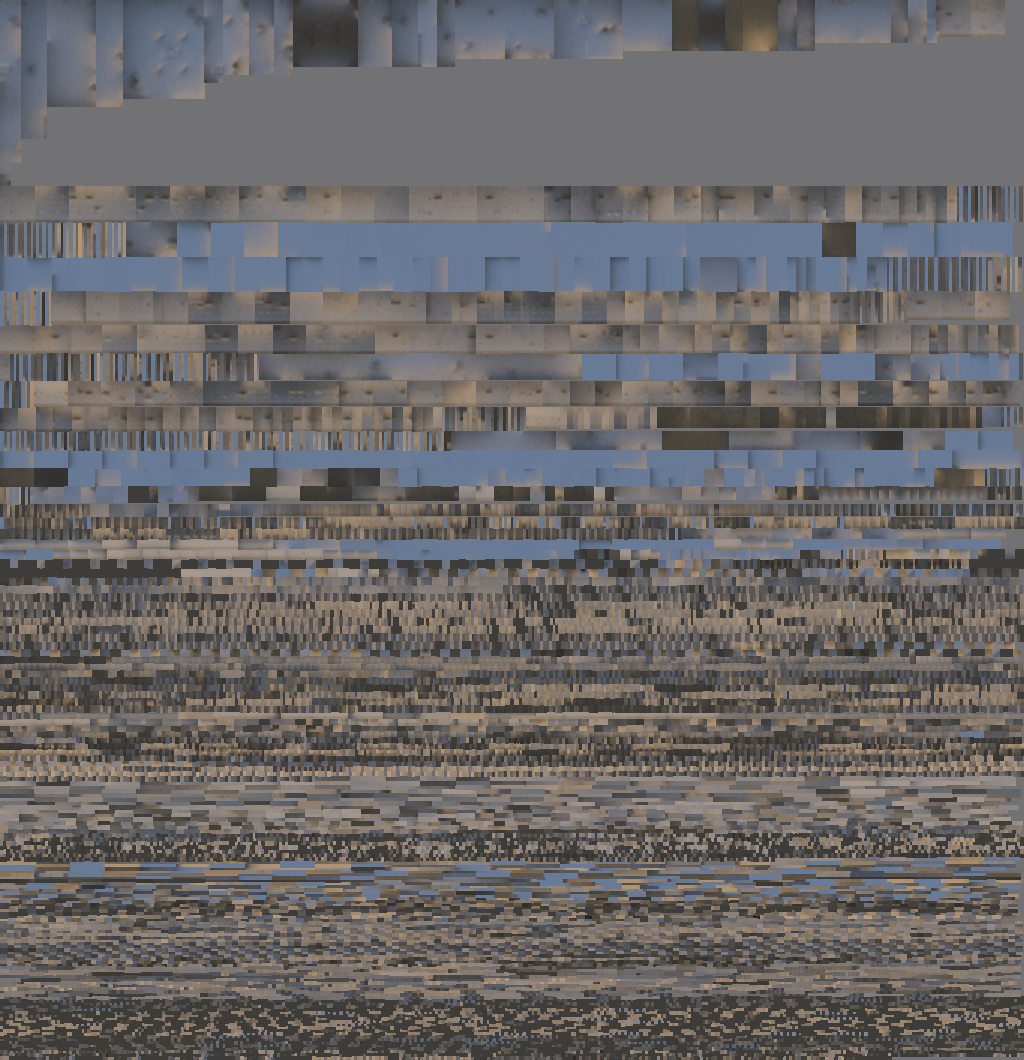
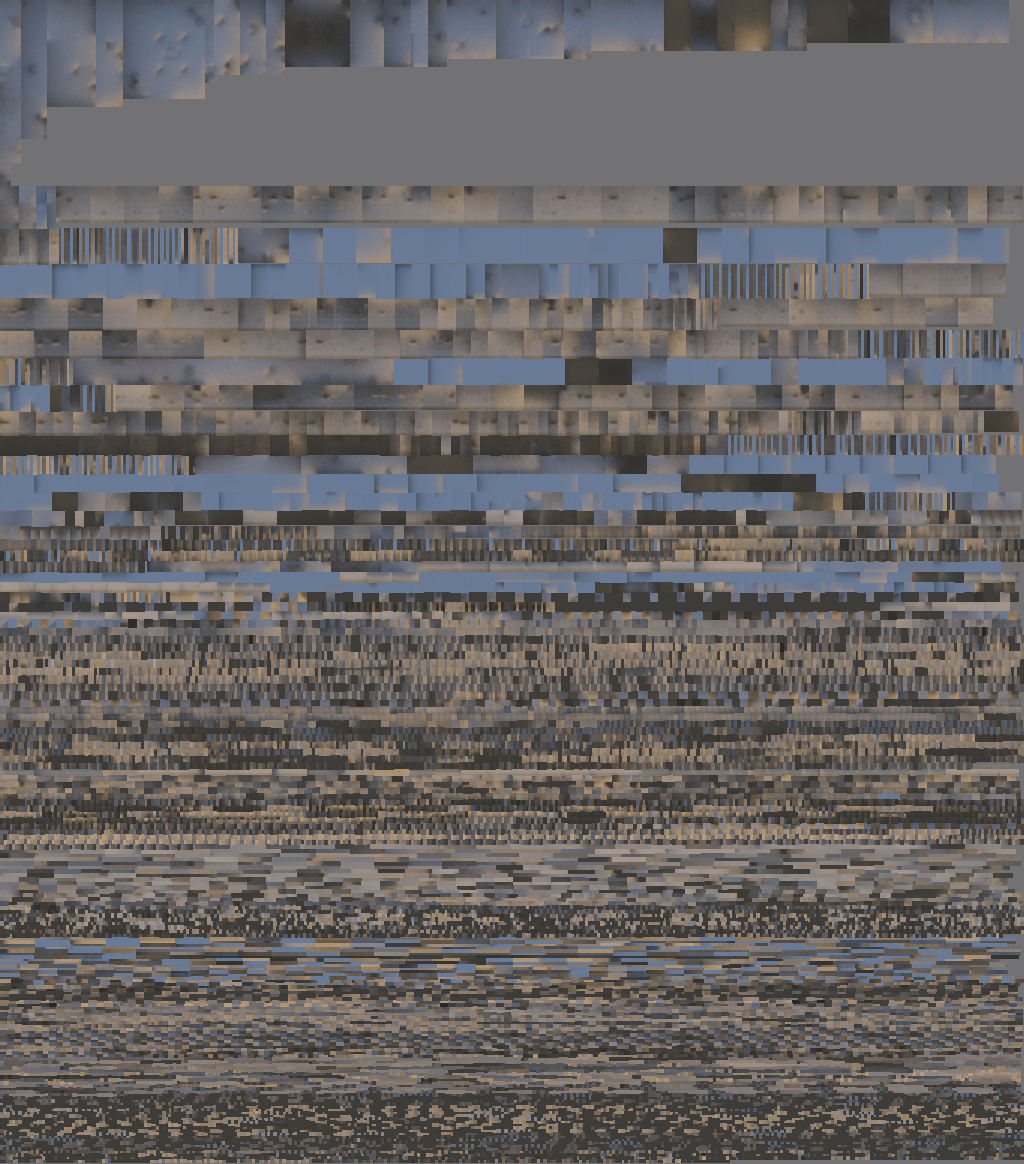
地图：西侧集市屋与中路窗口、东侧庭院水井（中路↔巴扎）、上中路防守狙击室、装卸码头第三条进攻路线、长街掩体；重新烘焙光照

diff --git a/js/map.js b/js/map.js
@@ -10,6 +10,11 @@
   const R = (c0, r0, c1, r1, ch) => { for (let r = r0; r <= r1; r++) for (let c = c0; c <= c1; c++) g[r][c] = ch; };
   const P = (c, r, ch) => { g[r][c] = ch; };
   const RIF = (c0, r0, c1, r1, from, to) => { for (let r = r0; r <= r1; r++) for (let c = c0; c <= c1; c++) if (g[r][c] === from) g[r][c] = to; };
+  const windows = new Map();
+  function windowCell(c, r, sill, head) {
+    P(c, r, 'W');
+    windows.set(r * W + c, { sill, head, top: 5.5 });
+  }
 
   R(18, 2, 30, 6, 'D');                                // defender spawn (north)
   R(5, 2, 17, 4, ','); R(5, 5, 7, 7, ',');             // back corridor → B
@@ -20,7 +25,7 @@
   P(24, 15, '=');                                      // mid gate
   R(22, 16, 27, 40, ',');                              // mid street
   R(17, 17, 20, 20, 'u'); R(16, 17, 16, 18, '=');     // B dye house, open west doorway
-  P(16, 19, 'W'); R(19, 21, 22, 22, 'u');              // loom window and offset mid entrance
+  windowCell(16, 19, 1.04, 2.35); R(19, 21, 22, 22, 'u'); // loom window and offset mid entrance
   R(28, 20, 32, 21, ','); R(31, 17, 32, 19, ',');      // mid → A connector
   R(16, 41, 33, 47, 'T');                              // attacker spawn (south)
   R(34, 42, 45, 46, '.'); R(40, 34, 45, 41, '.');      // east street
@@ -37,6 +42,25 @@
   R(26, 18, 27, 19, '#'); R(20, 30, 21, 32, ',');    // recessed stall court
   R(36, 27, 38, 28, 'h'); R(36, 22, 37, 26, ',');    // bazaar side passage
   R(34, 21, 37, 22, ','); R(34, 17, 35, 20, ',');
+
+  // West market house, with a bend into the recessed mid stall court.
+  R(10, 25, 14, 29, 'h'); P(9, 28, 'h');
+  P(12, 26, 'K'); P(10, 29, 'k');                    // crates under the hall roof
+  R(15, 28, 21, 28, ','); P(15, 28, 'h'); P(21, 29, ',');
+  windowCell(22, 28, 1.04, 2.35);
+
+  // Well court, with separate doors to mid and the bazaar.
+  R(30, 28, 34, 32, ','); R(35, 29, 35, 32, ',');
+  R(28, 30, 29, 30, ','); R(36, 31, 38, 31, 'h');
+  R(32, 30, 33, 31, 'o'); P(34, 28, 'C'); P(35, 32, 'c');
+
+  // Defender overlook. The slit is shorter than a fully crouched player.
+  R(17, 9, 20, 11, 'u'); R(21, 10, 22, 10, 'u');
+  windowCell(16, 10, 1.24, 2.10);
+
+  // Loading dock, with one door in each end wall.
+  R(25, 39, 30, 40, 'h'); P(26, 38, 'h');
+  P(28, 41, 'h'); R(29, 41, 30, 41, '%');
 
   // site B dressing
   R(12, 8, 15, 11, '^'); R(12, 12, 15, 12, 's');
@@ -56,6 +80,10 @@
   P(44, 22, 'c'); P(41, 23, 'C'); R(40, 17, 42, 17, 'H');
   P(41, 28, '+'); P(44, 28, '+'); P(41, 31, '+'); P(44, 31, '+');
   P(13, 37, 'c'); P(19, 36, 'b');
+  // Stagger cover so each street keeps a two-cell lane.
+  P(6, 26, 'C'); P(5, 32, 'C'); P(7, 41, 'w');
+  P(43, 18, 'C'); P(42, 25, 'b'); P(43, 38, 'C');
+  P(10, 4, 'C'); P(16, 2, 'b'); P(39, 4, 'C'); P(42, 2, 'w');
   // lower inner blocks use the plaster style
   RIF(9, 20, 21, 35, '#', '%'); RIF(28, 22, 38, 40, '#', '%'); RIF(16, 7, 22, 16, '#', '%');
   M.grid = g;
@@ -65,6 +93,7 @@
   M.FLOOR = FLOOR;
   M.inside = (c, r) => c >= 0 && r >= 0 && c < W && r < H;
   M.ch = (c, r) => (M.inside(c, r) ? g[r][c] : '#');
+  M.windowAt = (c, r) => M.ch(c, r) === 'W' ? windows.get(r * W + c) : undefined;
   M.walkable = (c, r) => FLOOR[M.ch(c, r)] !== undefined;
   M.floorH = (c, r) => FH[M.ch(c, r)] || 0;
   M.cellX = (c) => OX + c * CELL + CELL / 2;
@@ -109,11 +138,11 @@
   M.holds = [
     hold('A', 39, 8, 43, 19), hold('A', 35, 9, 34, 17), hold('A', 45, 13, 43, 19), hold('A', 44, 9, 38, 15),
     hold('B', 10, 9, 4, 20), hold('B', 13, 14, 17, 17), hold('B', 3, 15, 4, 21), hold('B', 13, 9, 16, 18),
-    hold('M', 24, 12, 24, 22), hold('M', 25, 9, 24, 15),
+    hold('M', 24, 12, 24, 22), hold('M', 17, 10, 13, 10),
   ];
   M.routes = {
-    A: [cp([[42, 44], [42, 30], [43, 21]]), cp([[42, 33], [38, 27], [37, 22], [34, 18]]), cp([[34, 37], [27, 35], [30, 20], [31, 17]])],
-    B: [cp([[6, 44], [5, 35], [4, 27], [4, 22]]), cp([[14, 39], [24, 35], [24, 24], [19, 21], [18, 17]]), cp([[14, 38], [5, 36], [4, 23]])],
+    A: [cp([[42, 44], [42, 30], [43, 21]]), cp([[42, 33], [38, 27], [37, 22], [34, 18]]), cp([[28, 41], [26, 38], [30, 30], [36, 31], [43, 21]])],
+    B: [cp([[6, 44], [5, 35], [4, 27], [4, 22]]), cp([[14, 39], [24, 35], [24, 24], [19, 21], [18, 17]]), cp([[25, 36], [21, 29], [16, 28], [9, 28], [4, 22]])],
   };
 
   // ---------- colliders ----------
@@ -124,12 +153,12 @@
     return b;
   }
   M.addBox = addBox;
-  const SOLID = { '#': 1, '%': 1, H: 1, w: 1, '^': 1, s: 1, t: 1, L: 1, '=': 1, u: 1, h: 1 };
+  const SOLID = { '#': 1, '%': 1, H: 1, w: 1, o: 1, '^': 1, s: 1, t: 1, L: 1, '=': 1, u: 1, h: 1, k: 1, K: 1 };
   function key(c, r) {
     const ch = g[r][c];
     if (!SOLID[ch]) return null;
     if (ch === '#' || ch === '%' || ch === 'H') return ch + M.tallH(c, r);
-    return ch;
+    return ch === 'k' || ch === 'K' ? 'h' : ch;
   }
   (function greedy() {
     const seen = new Uint8Array(W * H);
@@ -140,9 +169,16 @@
       let h = 1;
       outer: while (r + h < H) { for (let i = 0; i < w; i++) if (seen[(r + h) * W + c + i] || key(c + i, r + h) !== k) break outer; h++; }
       for (let j = 0; j < h; j++) for (let i = 0; i < w; i++) seen[(r + j) * W + c + i] = 1;
-      const ch = g[r][c], x0 = OX + c * CELL, z0 = OZ + r * CELL, x1 = x0 + w * CELL, z1 = z0 + h * CELL;
+      const ch = k[0], x0 = OX + c * CELL, z0 = OZ + r * CELL, x1 = x0 + w * CELL, z1 = z0 + h * CELL;
       if (ch === '#' || ch === '%' || ch === 'H') addBox(x0, 0, z0, x1, M.tallH(c, r), z1, ch === '#' ? 'wallA' : ch === '%' ? 'wallB' : 'wallC', { building: true });
       else if (ch === 'w') addBox(x0 + 0.25, 0, z0 + 0.25, x1 - 0.25, 1.0, z1 - 0.25, 'lowwall');
+      else if (ch === 'o') {
+        const left = x0 + .25, right = x1 - .25, north = z0 + .25, south = z1 - .25, rim = .4;
+        addBox(left, 0, north, right, 1, north + rim, 'wellWall');
+        addBox(left, 0, south - rim, right, 1, south, 'wellWall');
+        addBox(left, 0, north + rim, left + rim, 1, south - rim, 'wellWall');
+        addBox(right - rim, 0, north + rim, right, 1, south - rim, 'wellWall');
+      }
       else if (FH[ch]) addBox(x0, 0, z0, x1, FH[ch], z1, ch === 's' ? 'step' : 'plat');
       else if (ch === '=') addBox(x0, 3.4, z0, x1, 7.2, z1, 'roof');
       else if (ch === 'u') addBox(x0, 3.0, z0, x1, 5.5, z1, 'roof');
@@ -151,8 +187,14 @@
   })();
   for (let r = 0; r < H; r++) for (let c = 0; c < W; c++) {
     const ch = g[r][c], x0 = OX + c * CELL, z0 = OZ + r * CELL;
-    if (ch === 'c') addBox(x0 + 0.15, 0, z0 + 0.15, x0 + 1.85, 1.05, z0 + 1.85, 'crate');
-    else if (ch === 'C') { addBox(x0 + 0.15, 0, z0 + 0.15, x0 + 1.85, 1.05, z0 + 1.85, 'crate'); addBox(x0 + 0.4, 1.05, z0 + 0.3, x0 + 1.7, 2.05, z0 + 1.6, 'crate'); }
+    if ('cCkK'.includes(ch)) {
+      addBox(x0 + 0.15, 0, z0 + 0.15, x0 + 1.85, 1.05, z0 + 1.85, 'crate');
+      if (ch === 'C' || ch === 'K') addBox(x0 + 0.4, 1.05, z0 + 0.3, x0 + 1.7, 2.05, z0 + 1.6, 'crate');
+    } else if (ch === 'W') {
+      const { sill, head, top } = M.windowAt(c, r);
+      addBox(x0, 0, z0, x0 + CELL, sill, z0 + CELL, 'windowSill');
+      addBox(x0, head, z0, x0 + CELL, top, z0 + CELL, 'windowHead');
+    }
     else if (ch === 'b') addBox(x0 + 0.55, 0, z0 + 0.55, x0 + 1.45, 1.15, z0 + 1.45, 'barrel');
     else if (ch === '+') { const top = M.ch(c + 1, r) === 'h' || M.ch(c - 1, r) === 'h' ? 4.4 : 4.6; addBox(x0 + 0.5, 0, z0 + 0.5, x0 + 1.5, top, z0 + 1.5, 'pillar'); }
     else if (ch === 'p') addBox(x0 + 0.78, 0, z0 + 0.78, x0 + 1.22, 6, z0 + 1.22, 'palm');
@@ -187,10 +229,6 @@
     const x = gateX - .90 + i * .08, z = gateZ + .75 + i * .175;
     addBox(x, .025, z, x + .14, 2.53, z + .177, 'gateBoard');
   }
-  const sillX = M.cellX(16), sillZ = M.cellZ(19);
-  addBox(sillX - 1, 0, sillZ - 1, sillX + 1, 1.04, sillZ + 1, 'windowSill');
-  addBox(sillX - 1, 2.35, sillZ - 1, sillX + 1, 5.5, sillZ + 1, 'windowHead');
-
   const terraceX = M.cellX(37) - 1, terraceZ = M.cellZ(8) - 1;
   for (const [x0, z0, x1, z1] of [
     [terraceX, terraceZ, terraceX + 8, terraceZ + .13],
@@ -374,17 +412,19 @@
     for (let r = 0; r < H; r++) for (let cc = 0; cc < W; cc++) {
       const ch = g[r][cc], f = FLOOR[ch];
       if (f) x.fillStyle = col[f];
-      else if ('cCbw+pW'.includes(ch)) x.fillStyle = '#4b3f2e';
+      else if ('cCkKbow+pW'.includes(ch)) x.fillStyle = '#4b3f2e';
       else continue;
       x.fillRect(cc * px, r * px, px, px);
+      if (ch === 'W') {
+        x.fillStyle = '#afa184';
+        x.fillRect(cc * px + 2, r * px, 1, px);
+      }
     }
     x.fillStyle = '#4b3f2e';
     for (const b of M.boxes) if (b.kind === 'gateBoard' || b.kind === 'terraceRail') {
       x.fillRect((b.x0 - OX) / CELL * px, (b.z0 - OZ) / CELL * px,
         Math.max(1, (b.x1 - b.x0) / CELL * px), Math.max(1, (b.z1 - b.z0) / CELL * px));
     }
-    x.fillStyle = '#afa184';
-    x.fillRect(M.colOf(sillX) * px, M.rowOf(sillZ) * px + 2, px, 1);
     x.strokeStyle = 'rgba(255,174,66,.55)'; x.lineWidth = 2;
     for (const k in M.sites) {
       const s = M.sites[k];

diff --git a/js/mapgeo.js b/js/mapgeo.js
@@ -57,6 +57,7 @@
 
   // occupied height intervals of a grid cell
   const ROOF = { '=': [3.4, 7.2], u: [3.0, 5.5], h: [4.4, 7.0] };
+  const roofCell = (ch) => ch === 'k' || ch === 'K' ? 'h' : ch;
   const TILE_TINT = [1.13, 1.015, 0.85];
   const OUT = [{ y0: 0, y1: 99, k: 'out' }];
   function column(c, r) {
@@ -65,8 +66,12 @@
     if (ch === '#' || ch === '%' || ch === 'H') return [{ y0: 0, y1: M.tallH(c, r), k: ch }];
     const h = M.floorH(c, r);
     if (h) return [{ y0: 0, y1: h, k: ch }];
-    if (ch === 'W') return [{ y0: 0, y1: 1.04, k: 'W' }, { y0: 2.35, y1: 5.5, k: 'W' }];
-    if (ROOF[ch]) return [{ y0: ROOF[ch][0], y1: ROOF[ch][1], k: ch }];
+    if (ch === 'W') {
+      const { sill, head, top } = M.windowAt(c, r);
+      return [{ y0: 0, y1: sill, k: 'W' }, { y0: head, y1: top, k: 'W' }];
+    }
+    const roof = roofCell(ch);
+    if (ROOF[roof]) return [{ y0: ROOF[roof][0], y1: ROOF[roof][1], k: roof }];
     return [];
   }
   MG.column = column;
@@ -210,10 +215,11 @@
       Q(m, [x0, +y, z1], [x1 - x0, 0, 0], [0, 0, -(z1 - z0)], { tint: m === 'roof' ? t.split(',').map(Number) : m === 'tiles' ? TILE_TINT : WHITE });
     });
     greedy((c, r) => {
-      const ch = M.ch(c, r);
-      return ROOF[ch] ? 'wood|' + ROOF[ch][0] : null;
-    }, (k, x0, z0, x1, z1) => {
-      Q('wood', [x0, +k.split('|')[1], z0], [x1 - x0, 0, 0], [0, 0, z1 - z0]);
+      const ch = roofCell(M.ch(c, r));
+      if (ch === 'W') return M.windowAt(c, r).head;
+      return ROOF[ch] ? ROOF[ch][0] : null;
+    }, (y, x0, z0, x1, z1) => {
+      Q('wood', [x0, y, z0], [x1 - x0, 0, 0], [0, 0, z1 - z0]);
     });
     // floor material of prop cells comes from their open neighbours
     function floorOf(c, r) {
@@ -268,8 +274,8 @@
         const c = 2 * i + 1;
         const pc = f.point(c, 1.0);
         const oc = M.colOf(pc[0]), orow = M.rowOf(pc[1]), outCh = M.ch(oc, orow);
-        const open = M.walkable(oc, orow) || 'cCbw+p'.includes(outCh);
-        const covered = ROOF[outCh] !== undefined;
+        const open = M.walkable(oc, orow) || 'cCkKbow+p'.includes(outCh);
+        const covered = ROOF[roofCell(outCh)] !== undefined;
         const rng = rand(hash3(pc[0], pc[1], s.di + 1));
         const roll = rng();
         if (ground && M.walkable(oc, orow) && !M.floorH(oc, orow) && !covered && (hash3(pc[0], pc[1], 73) % 8 === 0)) {
@@ -382,6 +388,8 @@
       } else if (kind === 'terraceRail') {
         box('wood', x0, y0, z0, x1, y1 - .1, z1, { tint: [.52, .76, .72], skip: 'ny', occ: false });
         box('wood', x0 - .025, y1 - .1, z0 - .025, x1 + .025, y1, z1 + .025, { tint: [.82, .84, .65], occ: false });
+      } else if (kind === 'windowSill') {
+        Q('trim', [x0, y1, z1], [x1 - x0, 0, 0], [0, 0, z0 - z1]);
       } else if (kind === 'lamp') {
         box('metal',x0,y0,z0,x1,y0+.06,z1);
         box('trim',x0+.02,y0+.06,z0+.02,x1-.02,y1-.07,z1-.02,{tint:[1.15,.94,.62]});
@@ -411,6 +419,9 @@
       } else if (kind === 'lowwall') {
         box('rubble', x0, 0, z0, x1, y1 - 0.12, z1, { skip: 'ny' });
         box('trim', x0 - 0.05, y1 - 0.12, z0 - 0.05, x1 + 0.05, y1, z1 + 0.05);
+      } else if (kind === 'wellWall') {
+        box('rubble', x0, y0, z0, x1, y1 - .16, z1, { skip: 'ny' });
+        box('trim', x0, y1 - .16, z0, x1, y1, z1);
       } else if (kind === 'pillar') {
         box('trim', x0, 0, z0, x1, y1, z1, { skip: 'ny' });
         box('trim', x0 - 0.16, 0, z0 - 0.16, x1 + 0.16, 0.34, z1 + 0.16, { skip: 'ny' });
@@ -429,7 +440,6 @@
     box('trim', -2, 0, -20.15, 0, .018, -17.85, { skip: 'ny', occ: false });
     box('trim', -18.16, 1.02, -12, -15.84, 1.10, -10, { occ: false });
     box('wood', -18.12, 2.26, -12, -15.88, 2.36, -10, { occ: false });
-    Q('wood', [-18, 2.35, -12], [2, 0, 0], [0, 0, 2]);
     for (const z of [-15.6, -13.6, -11.6, -9.6]) box('wood', -16, 2.84, z, -8, 3, z + .16, { occ: false });
     Q('sign', [-18.025, 2.66, -11.72], [0, 0, 1.42], [0, .53, 0], { uv: MG.SIGNS[0] });
     Q('sign', [21.98, 2.82, -15.76], [0, 0, 1.52], [0, .58, 0], { uv: MG.SIGNS[1] });

diff --git a/tests/simulation.js b/tests/simulation.js
@@ -969,8 +969,26 @@ function mapChecks() {
   assert.equal(M.raycast(terrace.x, 4, terrace.z, 0, -1, 0, 5).y, 1.6);
   runRoute(M.sites.A.center, [terrace, M.cellPos(44, 8)]);
   runRoute(V(32.65, 0, 7.8001), [M.cellPos(43, 21)]);
-  const createElement = document.createElement, radarColors = new Map();
-  const ctx = { fillRect(x, y, w, h) { if (w === 5 && h === 5) radarColors.set(x + ',' + y, this.fillStyle); },
+
+  const cell = M.cellPos;
+  runRoute(cell(8, 28), [cell(12, 28), cell(21, 28), cell(22, 30)]);
+  runRoute(cell(27, 30), [cell(31, 32), cell(34, 32), cell(39, 31)]);
+  runRoute(cell(28, 42), [cell(28, 40), cell(26, 37)]);
+  runRoute(cell(23, 10), [cell(17, 10)]);
+  const marketZ = M.cellZ(28), overlookZ = M.cellZ(10);
+  assert(M.clearLine(V(M.cellX(21), 1.62, marketZ), V(M.cellX(27), 1.62, marketZ)), 'Market window opens onto mid');
+  assert(M.clearLine(V(M.cellX(18), 1.62, overlookZ), V(M.cellX(12), .9, overlookZ)), 'Overlook sees the raised B platform');
+  const overlook = M.windowAt(16, 10);
+  assert(!M.walkable(16, 10) && overlook.head - overlook.sill < G.bodyHeight(1) - .01, 'B window blocks crouch jumps');
+  const crate = cell(12, 26), wellSide = cell(34, 31);
+  assert.equal(M.raycast(crate.x, 3, crate.z, 0, 1, 0, 3).box.kind, 'roof', 'Market crate stays covered');
+  assert.equal(M.raycast(wellSide.x, .8, wellSide.z, -1, 0, 0, 4).box.kind, 'wellWall');
+
+  const createElement = document.createElement, radarColors = new Map(), radarSlits = new Set();
+  const ctx = { fillRect(x, y, w, h) {
+    if (w === 5 && h === 5) radarColors.set(x + ',' + y, this.fillStyle);
+    if (w === 1 && h === 5) radarSlits.add(x + ',' + y);
+  },
     strokeRect: noop, fillText: noop };
   try {
     document.createElement = () => ({ getContext: () => ctx });
@@ -979,6 +997,12 @@ function mapChecks() {
     const stairs = [8, 10, 11, 13].map(r => radarColors.get(38 * 5 + ',' + r * 5));
     assert(stairs.every(Boolean) && new Set(stairs).size === 4, 'Radar shades for all four raised levels');
     assert(radarColors.has('120,75') && !radarColors.has('125,75'), 'Single-cell gate on radar');
+    for (const [c, r] of [[12, 28], [31, 30], [18, 10], [28, 40]]) {
+      assert(radarColors.has(c * 5 + ',' + r * 5), 'Room on radar at ' + [c, r]);
+    }
+    for (const [c, r] of [[22, 28], [16, 10]]) {
+      assert(radarSlits.has((c * 5 + 2) + ',' + r * 5), 'Window on radar at ' + [c, r]);
+    }
   } finally {
     document.createElement = createElement;
   }
@@ -991,6 +1015,7 @@ function mapChecks() {
     assert(def.every(t => t >= 7.5 && t <= 12.5), 'Defender timing ' + JSON.stringify(times));
   }
   const rotation = runRoute(M.sites.A.center, [M.sites.B.center]);
+  assert(rotation >= 13.5 && rotation <= 18.5, 'A–B rotation ' + rotation.toFixed(1) + 's');
   console.log('Run times at ' + runSpeed + ' m/s:', JSON.stringify(times), 'A–B rotation', rotation.toFixed(1) + 's');
 }
 
